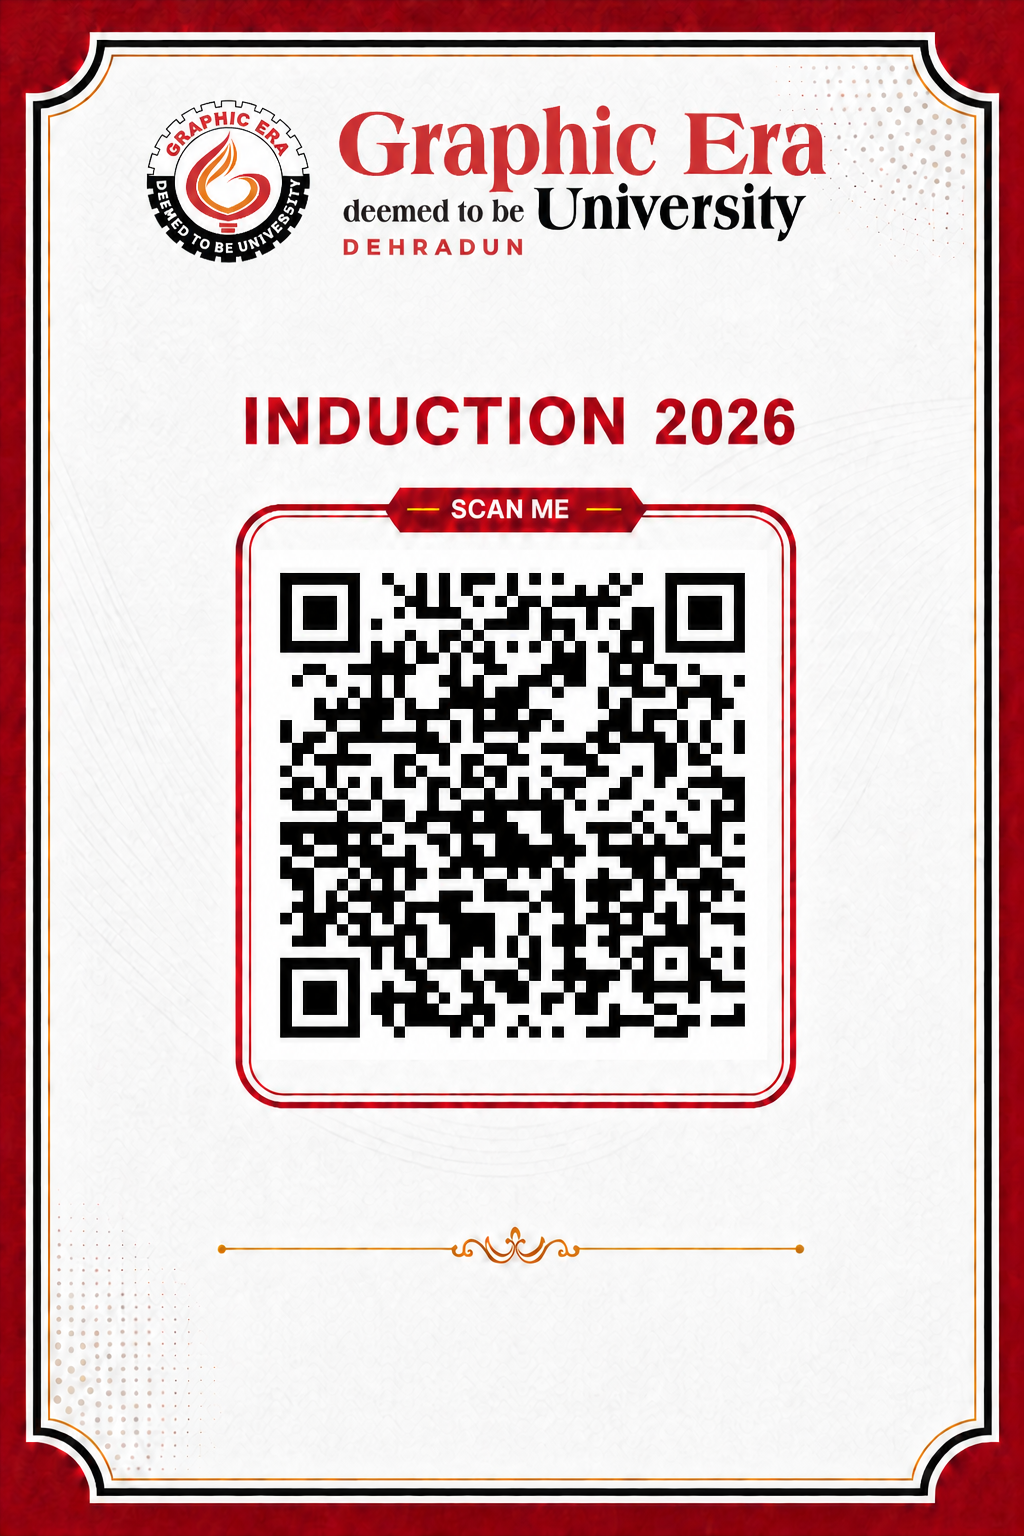
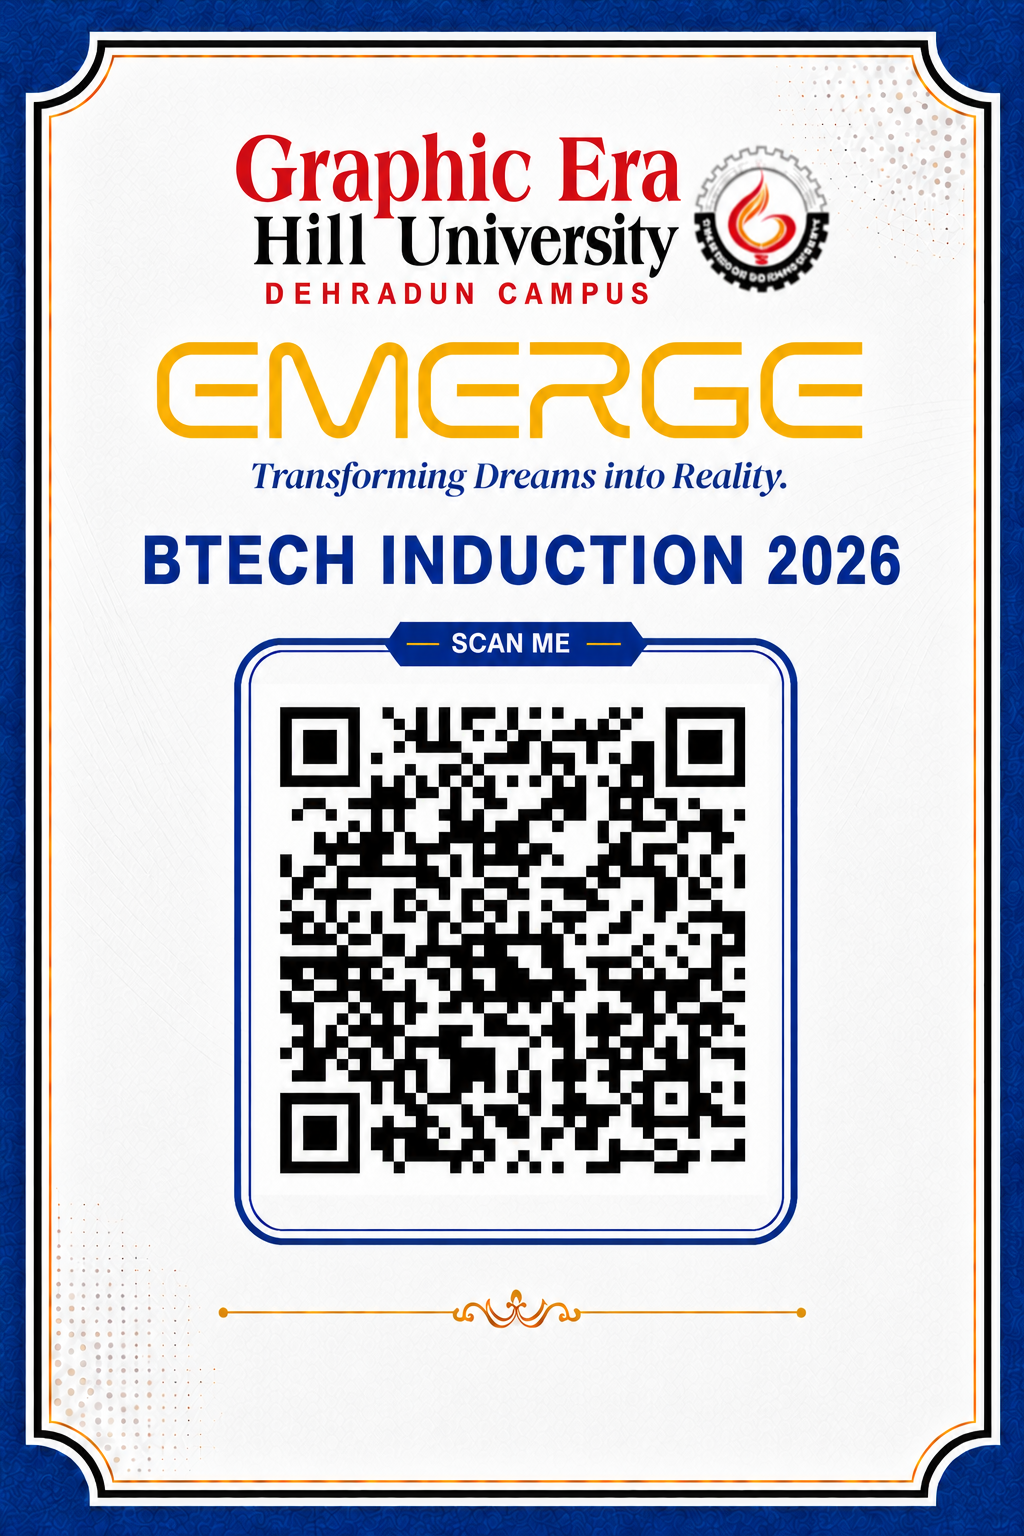
gh

diff --git a/backend/src/services/qrCardService.js b/backend/src/services/qrCardService.js
@@ -8,8 +8,8 @@ import jpeg from 'jpeg-js';
 const __dirname = path.dirname(fileURLToPath(import.meta.url));
 const templatePath = path.resolve(__dirname, '../../../frontend/src/img/123.png');
 // The template is 1024 × 1536. Keep the generated code inside the printed
-// red scanner frame, below the “SCAN ME” label, without covering its border.
-const qrBox = { x: 257, y: 550, size: 510 };
+// scanner frame, below the "SCAN ME" label, without covering its border.
+const qrBox = { x: 252, y: 680, size: 520 };
 
 let cachedTemplate;
 let cachedTemplateSource;

diff --git a/backend/src/config/env.js b/backend/src/config/env.js
@@ -5,6 +5,7 @@ import { z } from 'zod';
 
 const configDir = path.dirname(fileURLToPath(import.meta.url));
 dotenv.config({ path: path.resolve(configDir, '../../.env'), quiet: true, override: true });
+dotenv.config({ path: path.resolve(configDir, '../.env'), quiet: true, override: false });
 
 const optionalTrimmed = (schema) => z.preprocess((value) => {
   if (typeof value !== 'string') return value;
